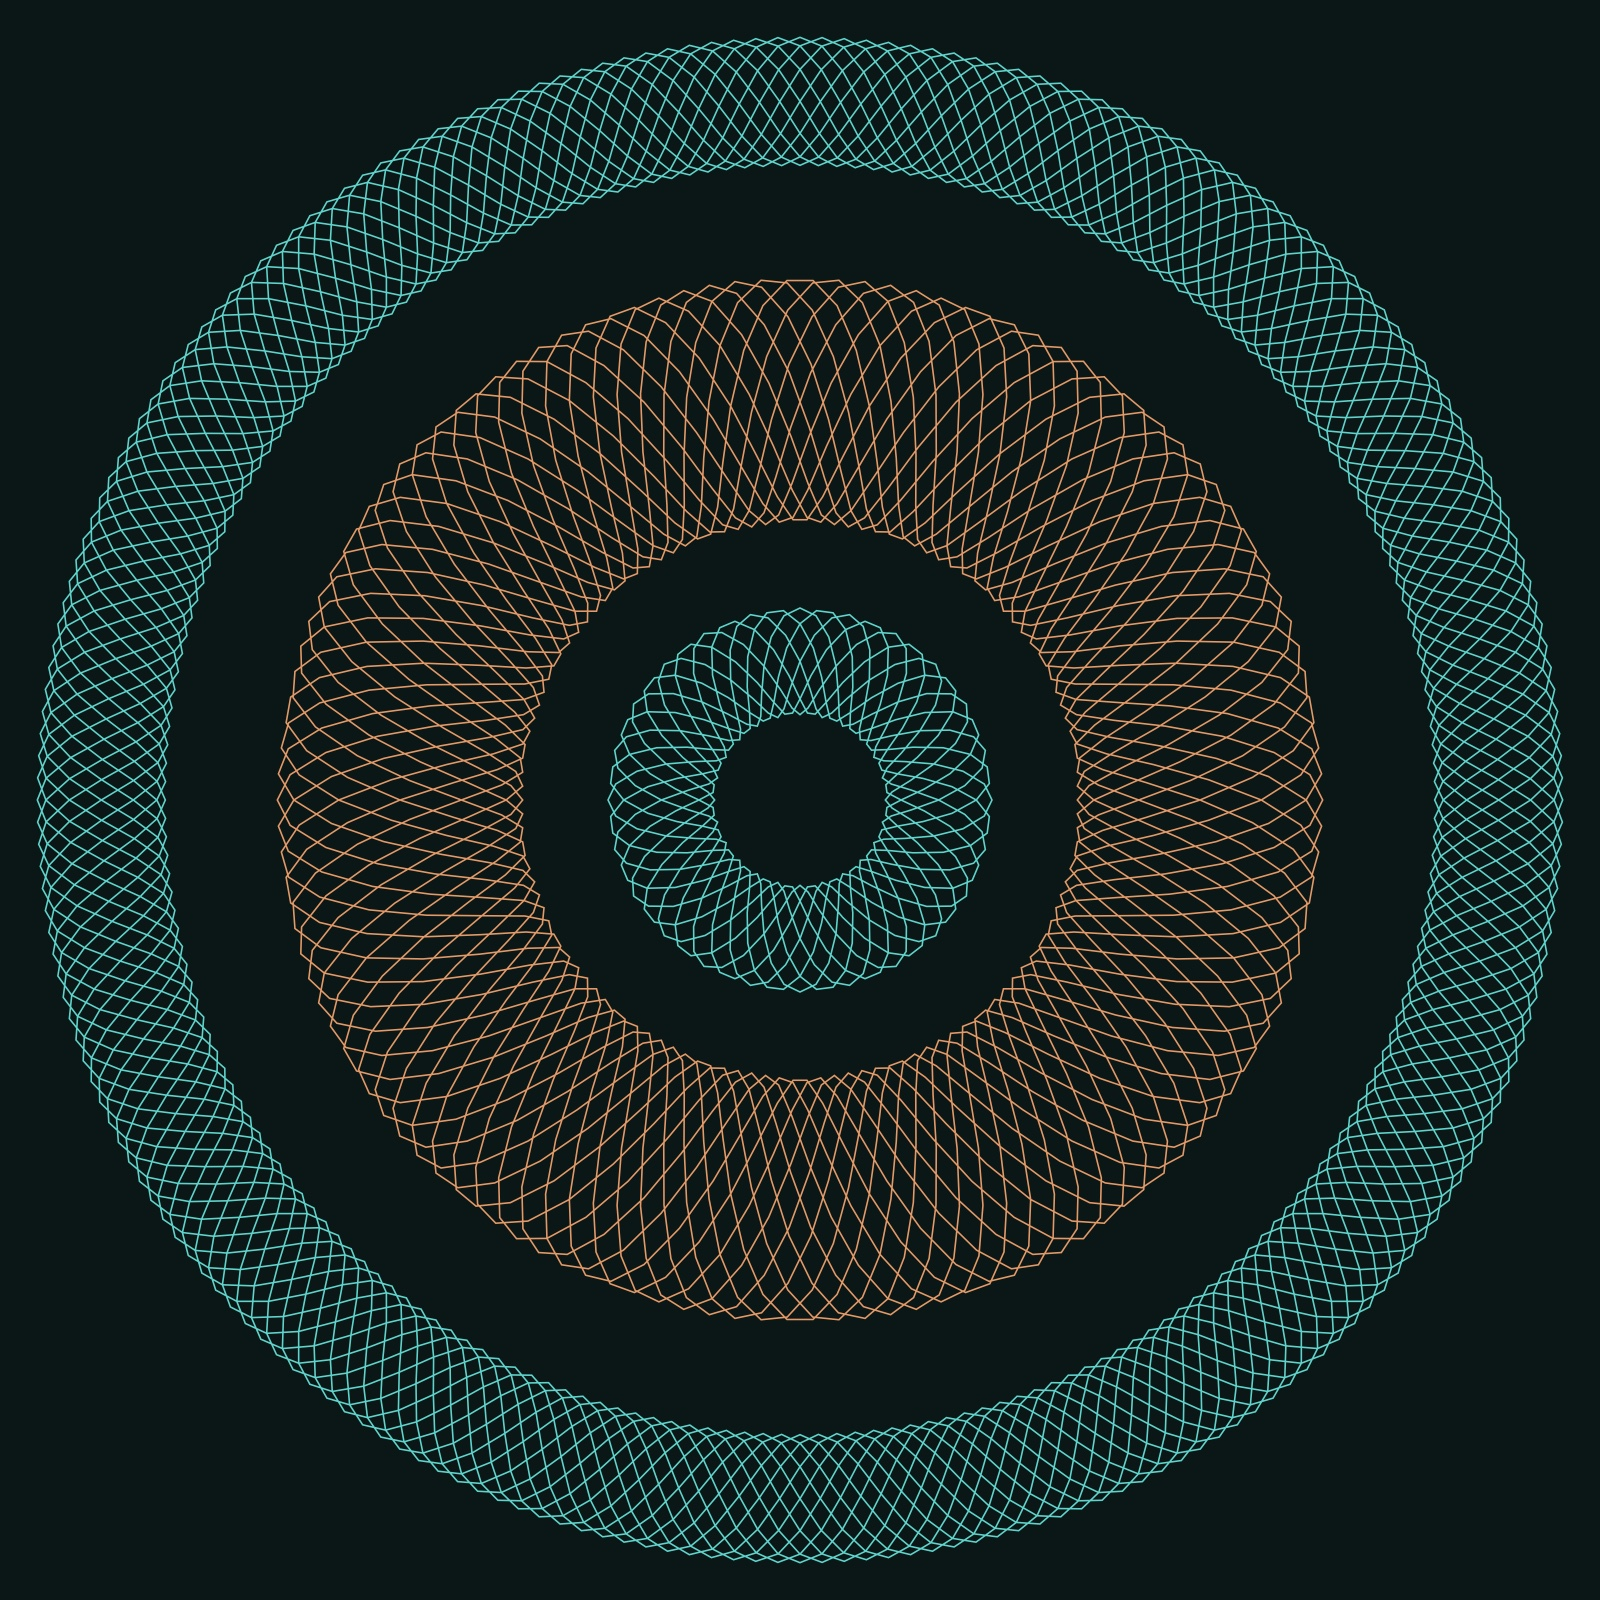
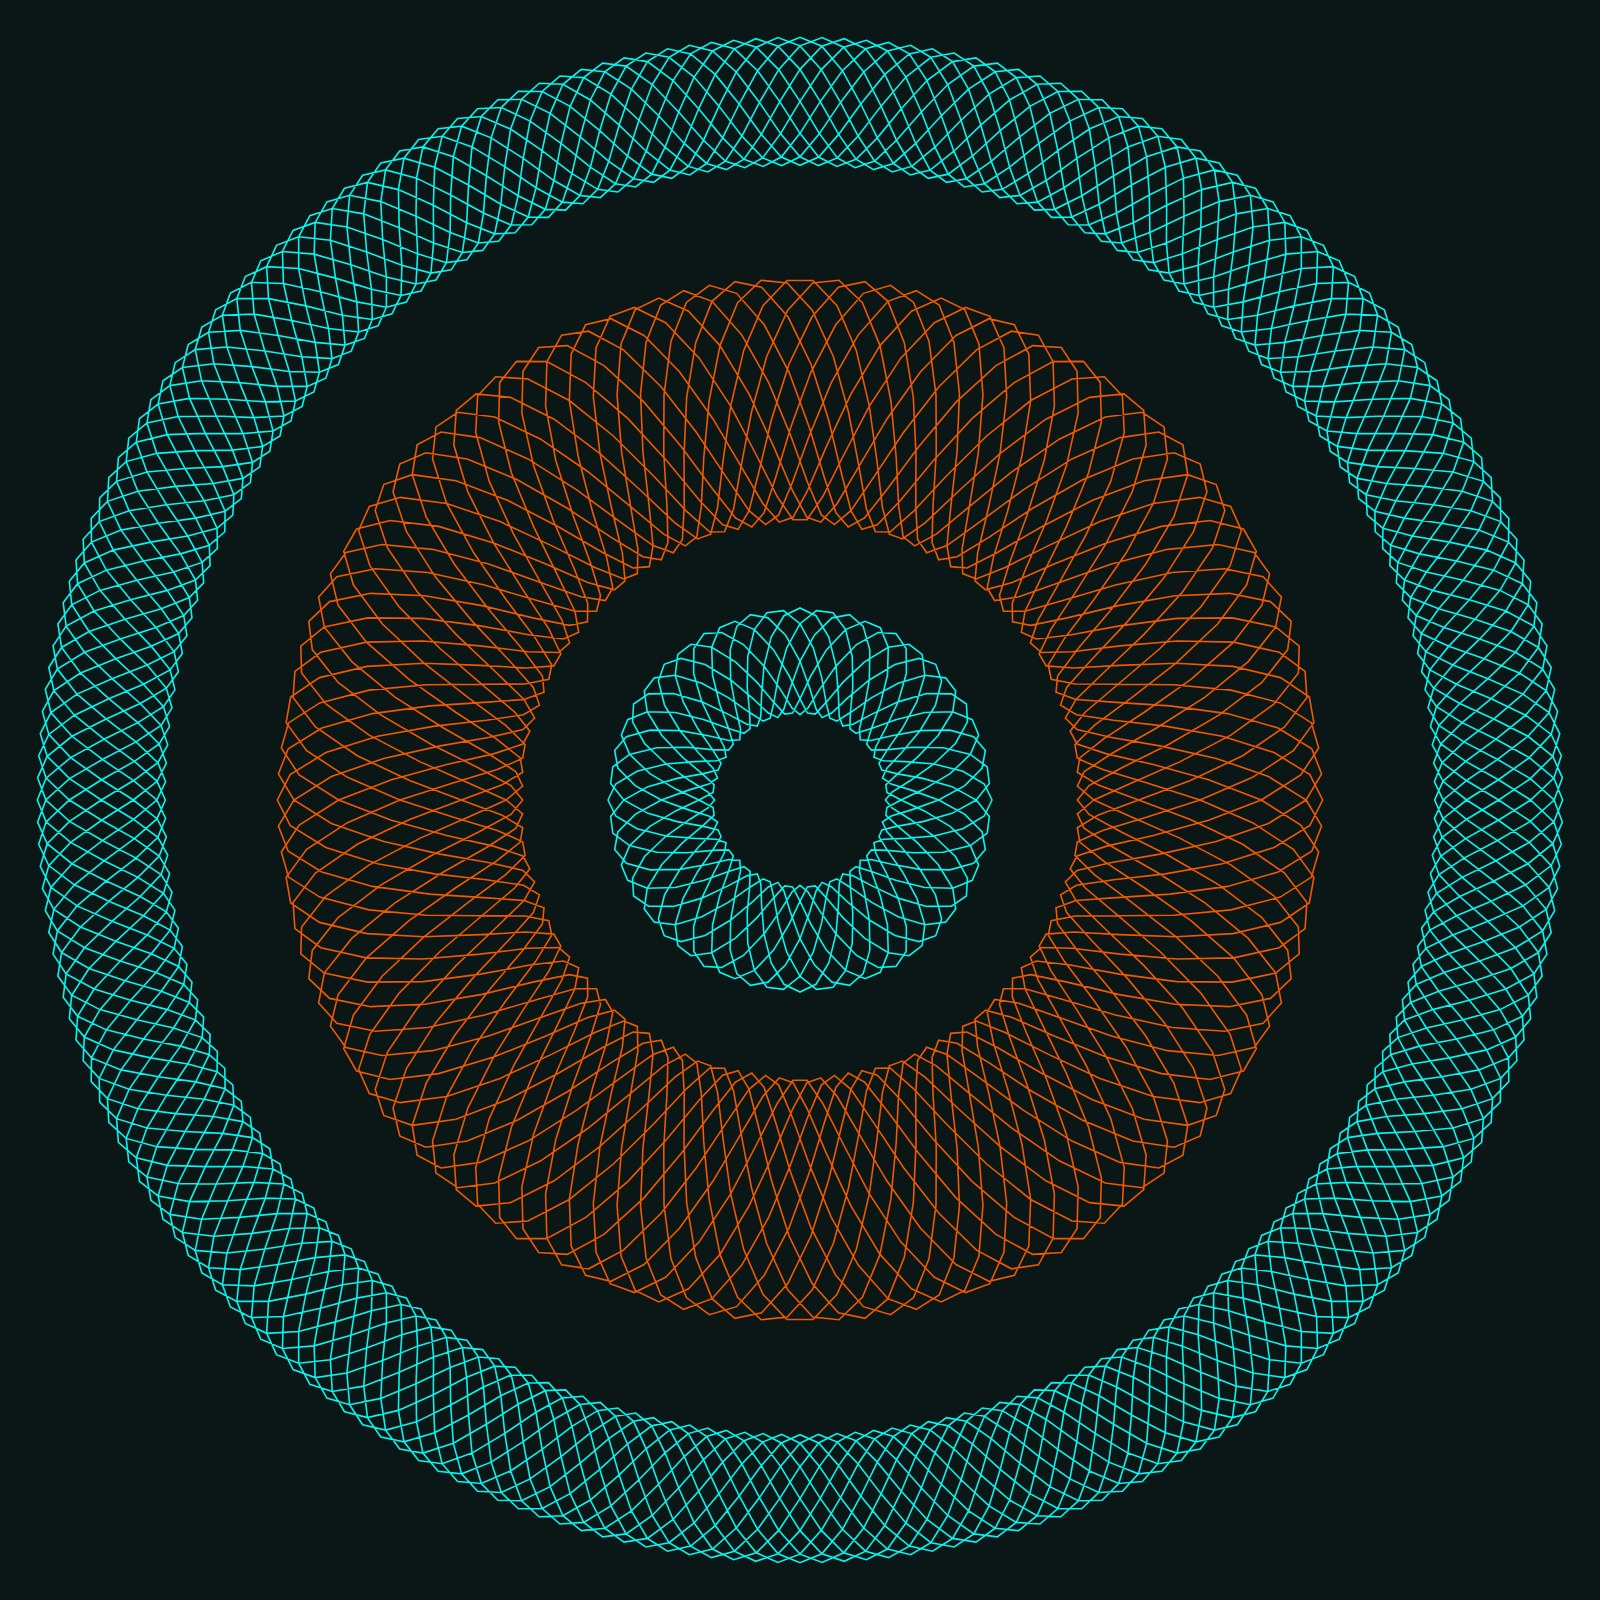
Redraw the rosette picture in the new colors, and show it square
hero.jpg is now drawn by npm run hero-image from the Rosette's own paths, in the dark theme's paper and rosette tokens, so it can be redrawn when they change. The Image entry on the components page crops it 1:1, so the whole rosette shows, and its alt text and caption describe the rosette rather than the Swiss artwork they were copied from.

Changed region(s): [[0.1562, 0.1562, 0.8438, 0.8438], [0.0312, 0.0, 0.9688, 0.9688], [0.375, 0.375, 0.625, 0.625]]

diff --git a/verdigris/demo/scripts/hero-image.ts b/verdigris/demo/scripts/hero-image.ts
@@ -1,0 +1,31 @@
+// Draws src/assets/hero.jpg, the rosette as a picture, for the Image entry on the components page
+// and the share cards. Same paths as the Rosette component, in the dark theme's paper and rosette
+// colors from tokens.json, at 1600×1600.
+//   npm run hero-image
+// Run it again after changing the rosette's shape or colors, then `npm run share-images`.
+import { readFileSync } from 'node:fs';
+import { chromium } from '@playwright/test';
+import { rosettePaths } from '../../kit/astro/rosette.ts';
+
+type Token = { name: string; value: Record<'light' | 'dark', string> };
+const tokens = JSON.parse(readFileSync(new URL('../../tokens.json', import.meta.url), 'utf8'));
+const all: Token[] = [...tokens.color.tokens, ...tokens.ornament.tokens];
+const dark = (name: string) => all.find((t) => t.name === name)!.value.dark;
+
+const size = 1600;
+const svg = `<svg xmlns="http://www.w3.org/2000/svg" viewBox="0 0 600 600" width="${size}" height="${size}">
+  <rect width="600" height="600" fill="${dark('paper')}"/>
+  <g fill="none" stroke-width="${dark('rosette-line')}">
+    <path stroke="${dark('rosette-verdigris')}" d="${rosettePaths.outer}"/>
+    <path stroke="${dark('rosette-copper')}" d="${rosettePaths.inner}"/>
+    <path stroke="${dark('rosette-verdigris')}" d="${rosettePaths.core}"/>
+  </g>
+</svg>`;
+
+const browser = await chromium.launch();
+const page = await browser.newPage({ viewport: { width: size, height: size } });
+await page.setContent(`<!doctype html><style>* { margin: 0; }</style>${svg}`);
+const path = new URL('../src/assets/hero.jpg', import.meta.url).pathname;
+await page.screenshot({ path, type: 'jpeg', quality: 88 });
+await browser.close();
+console.log('Wrote src/assets/hero.jpg');
